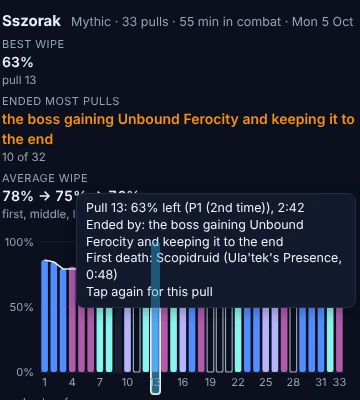
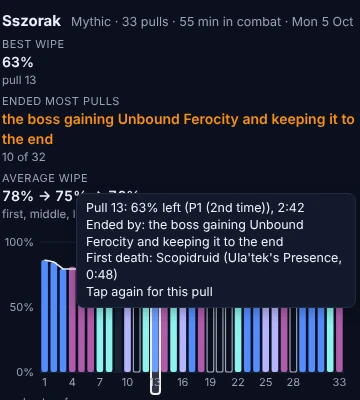
docs: the tapped night's picture shows the pull numbers as they are drawn now
The picture was taken before the last two pull numbers were kept apart: it
showed "31 33" under the bars, which the card no longer draws at that width.
The changelog also said state text takes the host's colour in Claude and
ChatGPT: it does where the host gives one, which only the mock host's
Claude-like colours have been checked for.

Changed region(s): [[0.3972, 0.6, 0.4583, 0.99], [0.8861, 0.93, 0.9167, 0.96]]

diff --git a/CHANGELOG.md b/CHANGELOG.md
@@ -16,7 +16,7 @@ The format is based on [Keep a Changelog](https://keepachangelog.com/en/1.1.0/).
 - `Discord` **Answers during a raid are short enough to read between pulls.** While your guild's report is being logged, an answer is the verdict and at most three one-sentence bullets, the fix first, with the rest as follow-up buttons. At other times the length follows what was asked: a who, when or how many gets the verdict and two bullets, a pull three, a night, a player or a plan five. The warning sign marks only the one change to make, before its bold words. Norwegian answers keep more of the game's words ("damage", "deaths", "HP", "pullet") and give a time in the fight as "på 3:13".
 - `Discord` **After a restart, a conversation starts over on every bot.** Your next question is answered from the messages before it, as after a quiet quarter of an hour. Picking a conversation up again from before the restart never worked on a server's own AI key, so it's gone from the bots where it did.
 - `Discord` **Follow-up buttons only where they add something.** A follow-up you were already offered in the conversation isn't offered again, and an answer that read nothing (a greeting, a reply to a remark) has no buttons under it.
-- `Agent` **One set of colours in every chart, made to be told apart.** How a night's pulls ended, the abilities in a death and the kinds of callout in a note now share four colours that stay apart for red-green colour-blind readers, in the light theme and the dark; whatever is past four is "other", drawn hollow. Gold, the orange of "decided", red and green were tuned again to read as text on a card and to stay apart too, text that says a state takes the host's own colour for it in Claude and ChatGPT, and a kick that went through or a cooldown not cast in a note's grid is a red square with a cross in it. A night's picture in Discord has its own legend.
+- `Agent` **One set of colours in every chart, made to be told apart.** How a night's pulls ended, the abilities in a death and the kinds of callout in a note now share four colours that stay apart for red-green colour-blind readers, in the light theme and the dark; whatever is past four is "other", drawn hollow. Gold, the orange of "decided", red and green were tuned again to read as text on a card and to stay apart too, text that says a state takes the host's own colour for it where Claude or ChatGPT gives one, and a kick that went through or a cooldown not cast in a note's grid is a red square with a cross in it. A night's picture in Discord has its own legend.
 
   ![Sszorak over 33 pulls in the light theme: each bar in one of four colours for what ended the pull, the endings past four drawn hollow, and the same colours in the list of how the pulls ended](https://raw.githubusercontent.com/Enf0/wipebot/main/docs/images/chart-colours-light.webp)
 
